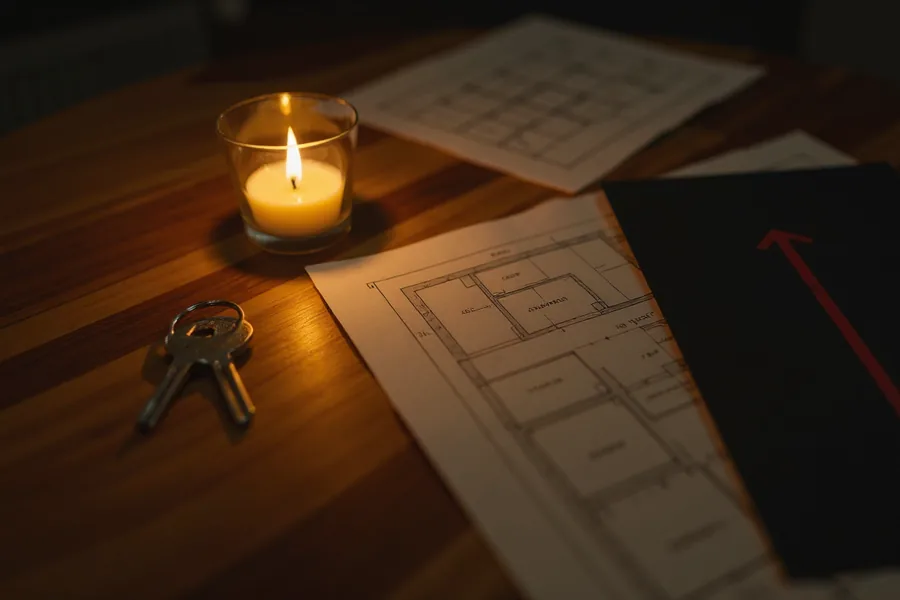
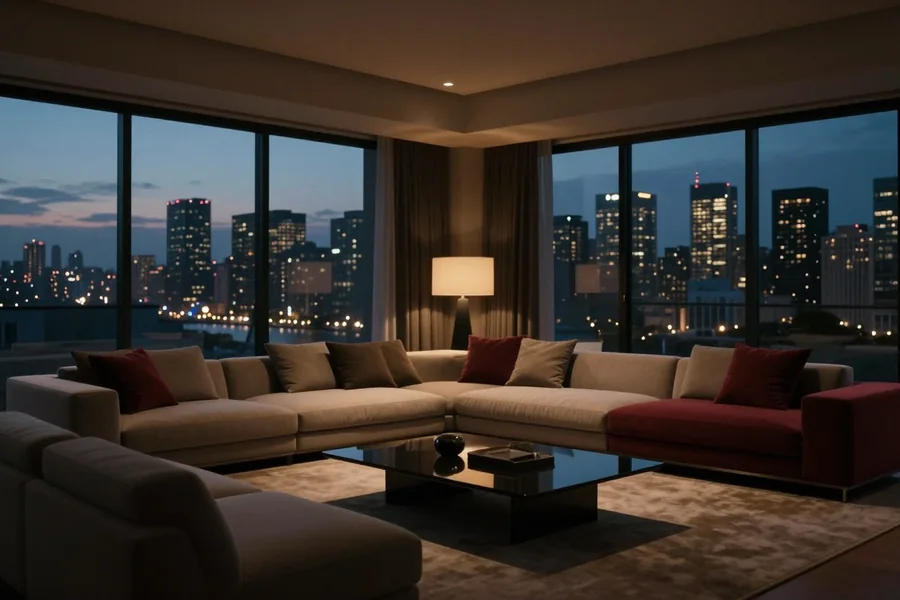
Prodejnější hero: luxusní obývák za soumraku s městem (mflux), Ken-Burns video loop
Nahrazeno svíčkové still-life hero za aspirační interiér s červeným akcentem (pohovka).
Nový poster + mobilní still + hero-loop.mp4 (jemný ping-pong zoom z nového stillu).

diff --git a/index.html b/index.html
@@ -401,7 +401,7 @@ footer{background:var(--ink-2);border-top:1px solid var(--line);padding:clamp(60
   <div class="hero-bg">
     <picture>
       <source media="(max-width:760px)" srcset="/assets/img/hero-table-mobile.webp">
-      <img src="<!--cms:home.hero.image type=image label="Hlavní fotka hero (desktop)"-->/assets/img/hero-poster.webp<!--/cms:home.hero.image-->" alt="Klíče, půdorys bytu a červená růstová křivka u svíčky na tmavém stole" fetchpriority="high">
+      <img src="<!--cms:home.hero.image type=image label="Hlavní fotka hero (desktop)"-->/assets/img/hero-poster.webp<!--/cms:home.hero.image-->" alt="Moderní obývací pokoj s červenou pohovkou a výhledem na noční město za soumraku" fetchpriority="high">
     </picture>
     <video id="heroVideo" muted loop playsinline preload="none" poster="/assets/img/hero-poster.webp" data-src="/assets/video/hero-loop.mp4" aria-hidden="true"></video>
   </div>